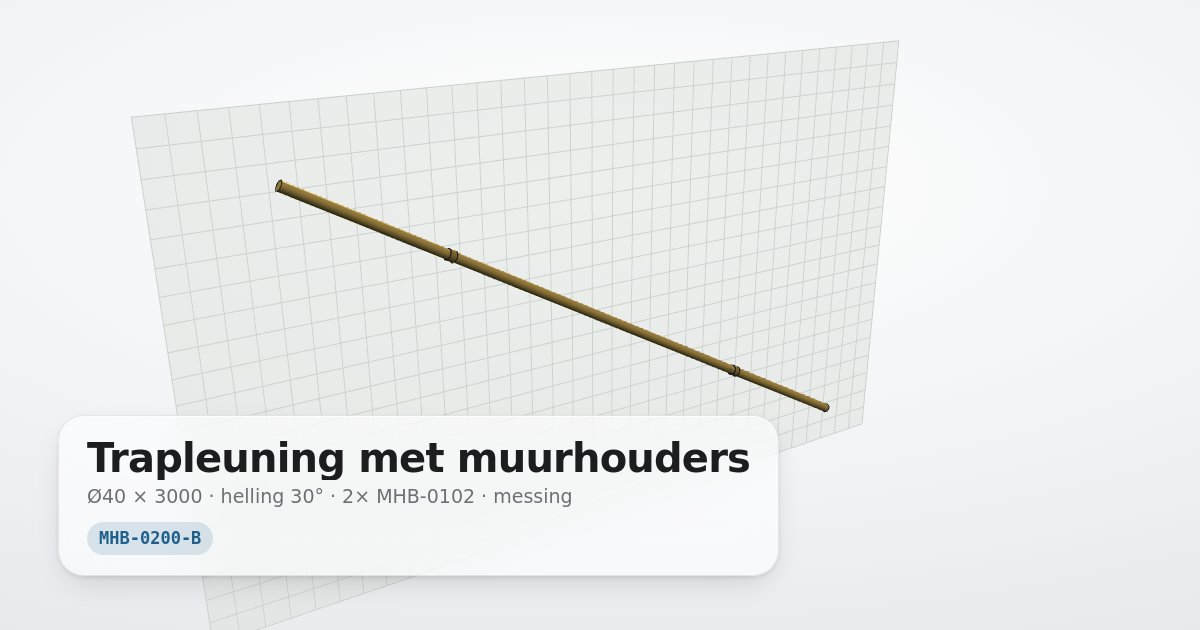
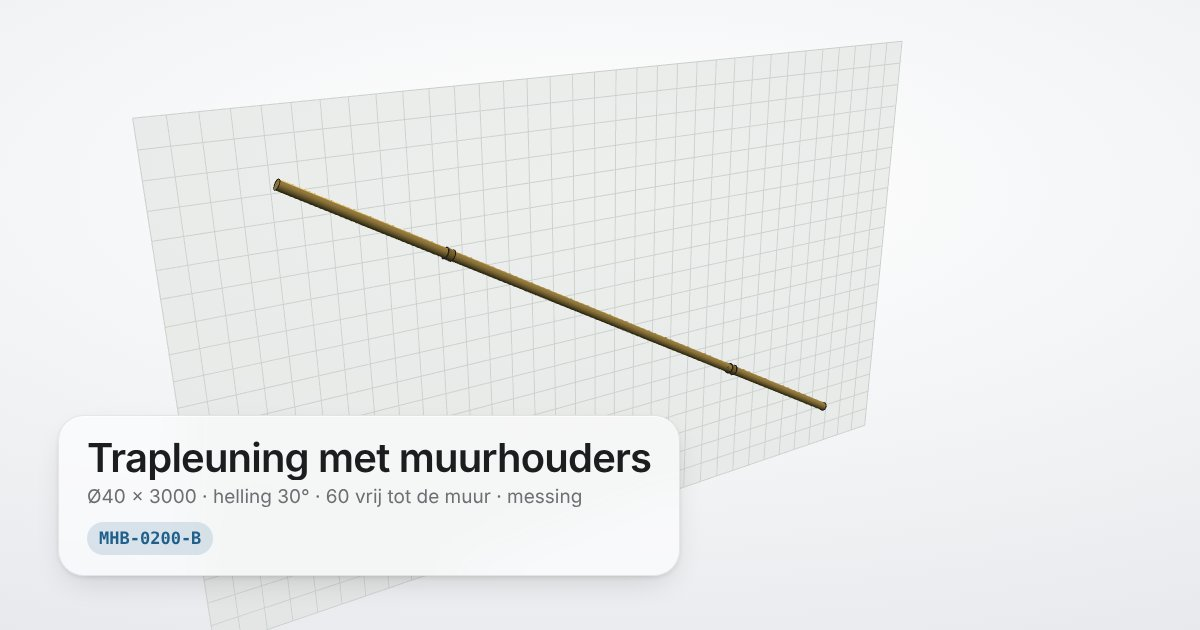
MHB-0200-B uitgewerkt: 60 mm vrij tot de muur, 70 mm in de muur
- Staaf van de muurhouder M8 × 130: 60 vrije ruimte tussen muur en buis
  (was 100) en 70 schroefdraad in de muur (was 50); hartlijn buis op 80
  van de muur (was 120).
- Maten in het detail: 60 (vrij) en 80 (hartlijn) gestapeld, anker M8 × 70.
- Titelblok en ondertitel bijgewerkt. Revisie B blijft een concept tot ze
  wordt vrijgegeven.

Claude-Session: https://claude.ai/code/session_01XXJD1Cb5JRmrQvLX4eUmCv

diff --git a/drawings/MHB-0200/B.html b/drawings/MHB-0200/B.html
@@ -28,11 +28,11 @@
 // Muurvlak is x = 0, x positief = weg van de muur. Buis loopt langs Z, evenwijdig aan de muur.
 const TUBE = { d:40, len:3000, fromEnd:700 };
 const RING = { OD:46, ID:41, width:30 };
-const ROD  = { d:8, len:150, anchor:50, pitch:1.25 };
+const ROD  = { d:8, len:130, anchor:70, pitch:1.25 };   // rev B: 60 vrij tot de muur + 70 in de muur
 const rt = TUBE.d/2, R = RING.OD/2, r = RING.ID/2, Wd = RING.width, rd = ROD.d/2;
-const XTIP  = ROD.len - ROD.anchor;          // 100: staafpunt, raakt de buis
-const XTUBE = XTIP + rt;                      // 120: hartlijn buis
-const XRING = XTUBE - (r - rt);               // 119.5: ring trekt de buis tegen de staafpunt
+const XTIP  = ROD.len - ROD.anchor;          // 60: staafpunt, raakt de buis (vrije ruimte buis–muur)
+const XTUBE = XTIP + rt;                      // 80: hartlijn buis
+const XRING = XTUBE - (r - rt);               // 79.5: ring trekt de buis tegen de staafpunt
 const THR_RING = 3;                           // draad ringkant, blijft binnen de ringwand
 const ZH = TUBE.len/2 - TUBE.fromEnd;         // 800: houders op z = ±800
 const SLOPE = 30*Math.PI/180;                 // de hele leuning kantelt 30° in het muurvlak
@@ -41,7 +41,7 @@ const WALL_Z = 1700, WALL_Y = 1000;
 DrawingViewer.create({
   lang: 'nl',
   title: 'Trapleuning met muurhouders',
-  subtitle: 'Ø40 × 3000 · helling 30° · 2× MHB-0102 · messing',
+  subtitle: 'Ø40 × 3000 · helling 30° · 60 vrij tot de muur · messing',
   number: 'MHB-0200-B',
   register: { url: '../../drawings.json', number: 'MHB-0200', rev: 'B' },
   colors: {
@@ -51,11 +51,11 @@ DrawingViewer.create({
   materials: { part: { metalness: 0.45, roughness: 0.38 }, tube: { metalness: 0.45, roughness: 0.32 } },
   modes: ['solid', 'xray'],
   views: [
-    { id: 'iso', label: 'Overzicht', tag: 'Overzicht', theta: 1.0, phi: 1.2, radius: 4600, target: [60, 0, 0] },
-    { id: 'front', theta: Math.PI/2, phi: Math.PI/2, radius: 4600, target: [60, 0, 0] },
-    { id: 'top', theta: Math.PI/2, phi: 0.0001, radius: 4600, target: [60, 0, 0] },
+    { id: 'iso', label: 'Overzicht', tag: 'Overzicht', theta: 1.0, phi: 1.2, radius: 4600, target: [XTUBE/2, 0, 0] },
+    { id: 'front', theta: Math.PI/2, phi: Math.PI/2, radius: 4600, target: [XTUBE/2, 0, 0] },
+    { id: 'top', theta: Math.PI/2, phi: 0.0001, radius: 4600, target: [XTUBE/2, 0, 0] },
     { id: 'detail', label: 'Detail houder', tag: 'Detail houder', theta: Math.PI/2 + 0.45, phi: 0.72, radius: 560,
-      target: [60, ZH*Math.sin(SLOPE), ZH*Math.cos(SLOPE)] }   // houder op z = +800, gekanteld
+      target: [XTUBE/2, ZH*Math.sin(SLOPE), ZH*Math.cos(SLOPE)] }   // houder op z = +800, gekanteld
   ],
   camera: { min: 60, max: 9000 },
   spinSpeed: 0.3,
@@ -63,13 +63,13 @@ DrawingViewer.create({
   titleBlock: [
     { k: 'Titel', v: 'Trapleuning met muurhouders', title: true },
     { k: 'Tekeningnr.', v: 'MHB-0200-B (samenstelling)' },
-    { k: 'Onderdelen', v: '1× buis Ø40 × 3000 · 2× muurhouder MHB-0102' },
-    { k: 'Muur tot hartlijn buis', v: '120' },
+    { k: 'Onderdelen', v: '1× buis Ø40 × 3000 · 2× muurhouder MHB-0102 met staaf M8 × 130 (70 in de muur)' },
+    { k: 'Muur tot buis · hartlijn', v: '60 vrij · 80' },
     { k: 'Speling buis in ring', v: '0,5 per zijde (Ø40 in Ø41)' },
     { k: 'Materiaal', v: 'Messing' },
     { k: 'Helling · Eenheden', v: '30° · mm' },
     { k: 'Projectie', v: 'Eerste hoek', projection: true },
-    { k: 'Getekend · Blad', v: '2026-11-03 · 1/1' }
+    { k: 'Getekend · Blad', v: '2026-11-04 · 1/1' }
   ],
   build(m) {
     const { THREE, V } = m;
@@ -163,10 +163,13 @@ DrawingViewer.create({
     for (let z=-1560; z<1560; z+=60){ cl.push(V(XTUBE,0,z), V(XTUBE,0,Math.min(z+36,1560))); cl.push(V(XTUBE,0,z+44), V(XTUBE,0,z+50)); }
     all.segments(cl);
 
-    detail.linear({ a: V(0,70,zf), b: V(XTUBE,70,zf), n: V(0,0,1), text: '120',
-      ext: [[V(0,rd,zf),V(0,74,zf)],[V(XTUBE,R+3,zf),V(XTUBE,74,zf)]] });
+    detail.linear({ a: V(0,92,zf), b: V(XTUBE,92,zf), n: V(0,0,1), text: String(XTUBE),
+      ext: [[V(0,rd,zf),V(0,96,zf)],[V(XTUBE,R+3,zf),V(XTUBE,96,zf)]] });
     detail.leader({ p: V(XRING+R*c45, R*c45, zf), e: V(XRING+R*c45+34, R*c45+34, zf), text: 'Muurhouder MHB-0102 (2×)' });
-    detail.leader({ p: V(-25, rd, ZH-rd), e: V(-45, 40, ZH-60), text: 'M8 × 50 chemisch anker' });
+    detail.leader({ p: V(-ROD.anchor/2, rd, ZH-rd), e: V(-ROD.anchor/2-20, 40, ZH-60), text: `M8 × ${ROD.anchor} chemisch anker` });
+    // Vrije ruimte tussen muur en buis (rev B: 60), gestapeld binnen de 80 tot de hartlijn
+    detail.linear({ a: V(0,48,zf), b: V(XTIP,48,zf), n: V(0,0,1), text: String(XTIP),
+      ext: [[V(XTIP,4,zf),V(XTIP,52,zf)]] });
     detail.leader({ p: V(XTUBE+rt*c45, rt*c45, ZH-110), e: V(XTUBE+rt*c45+30, rt*c45+30, ZH-110), text: 'Ø40' });
 
     // Maten op de muur (wereldassen): hartafstand van de ankers, horizontaal en in hoogte, plus de helling.
